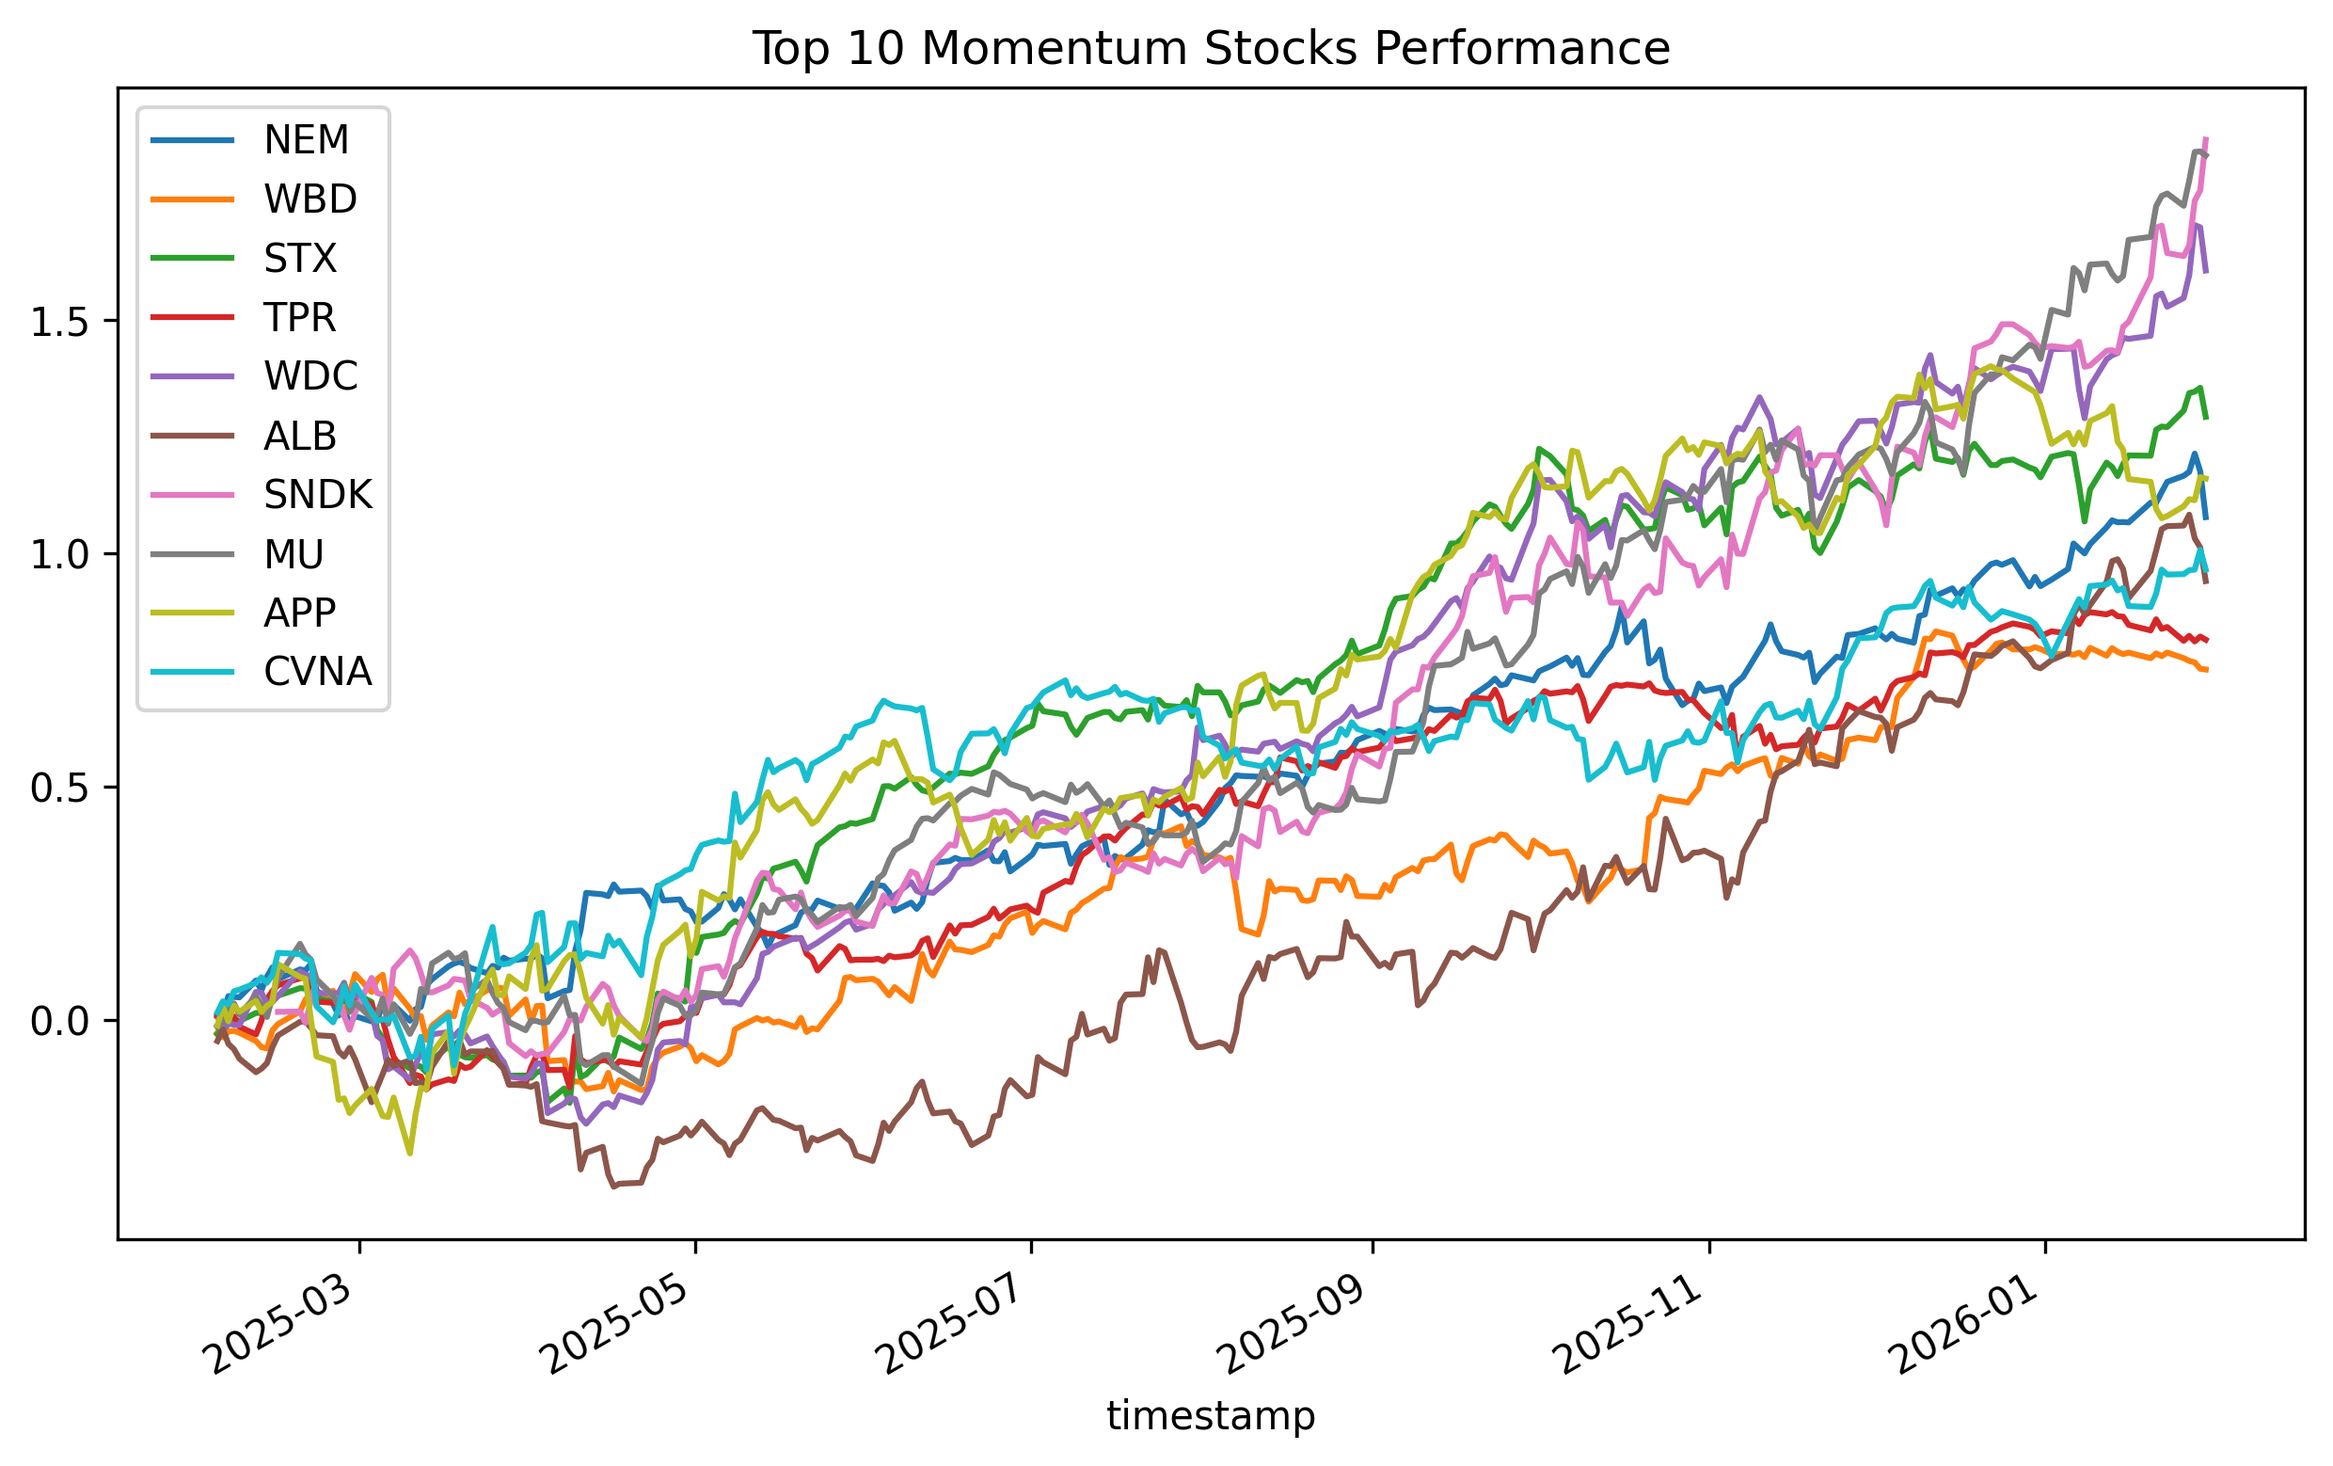
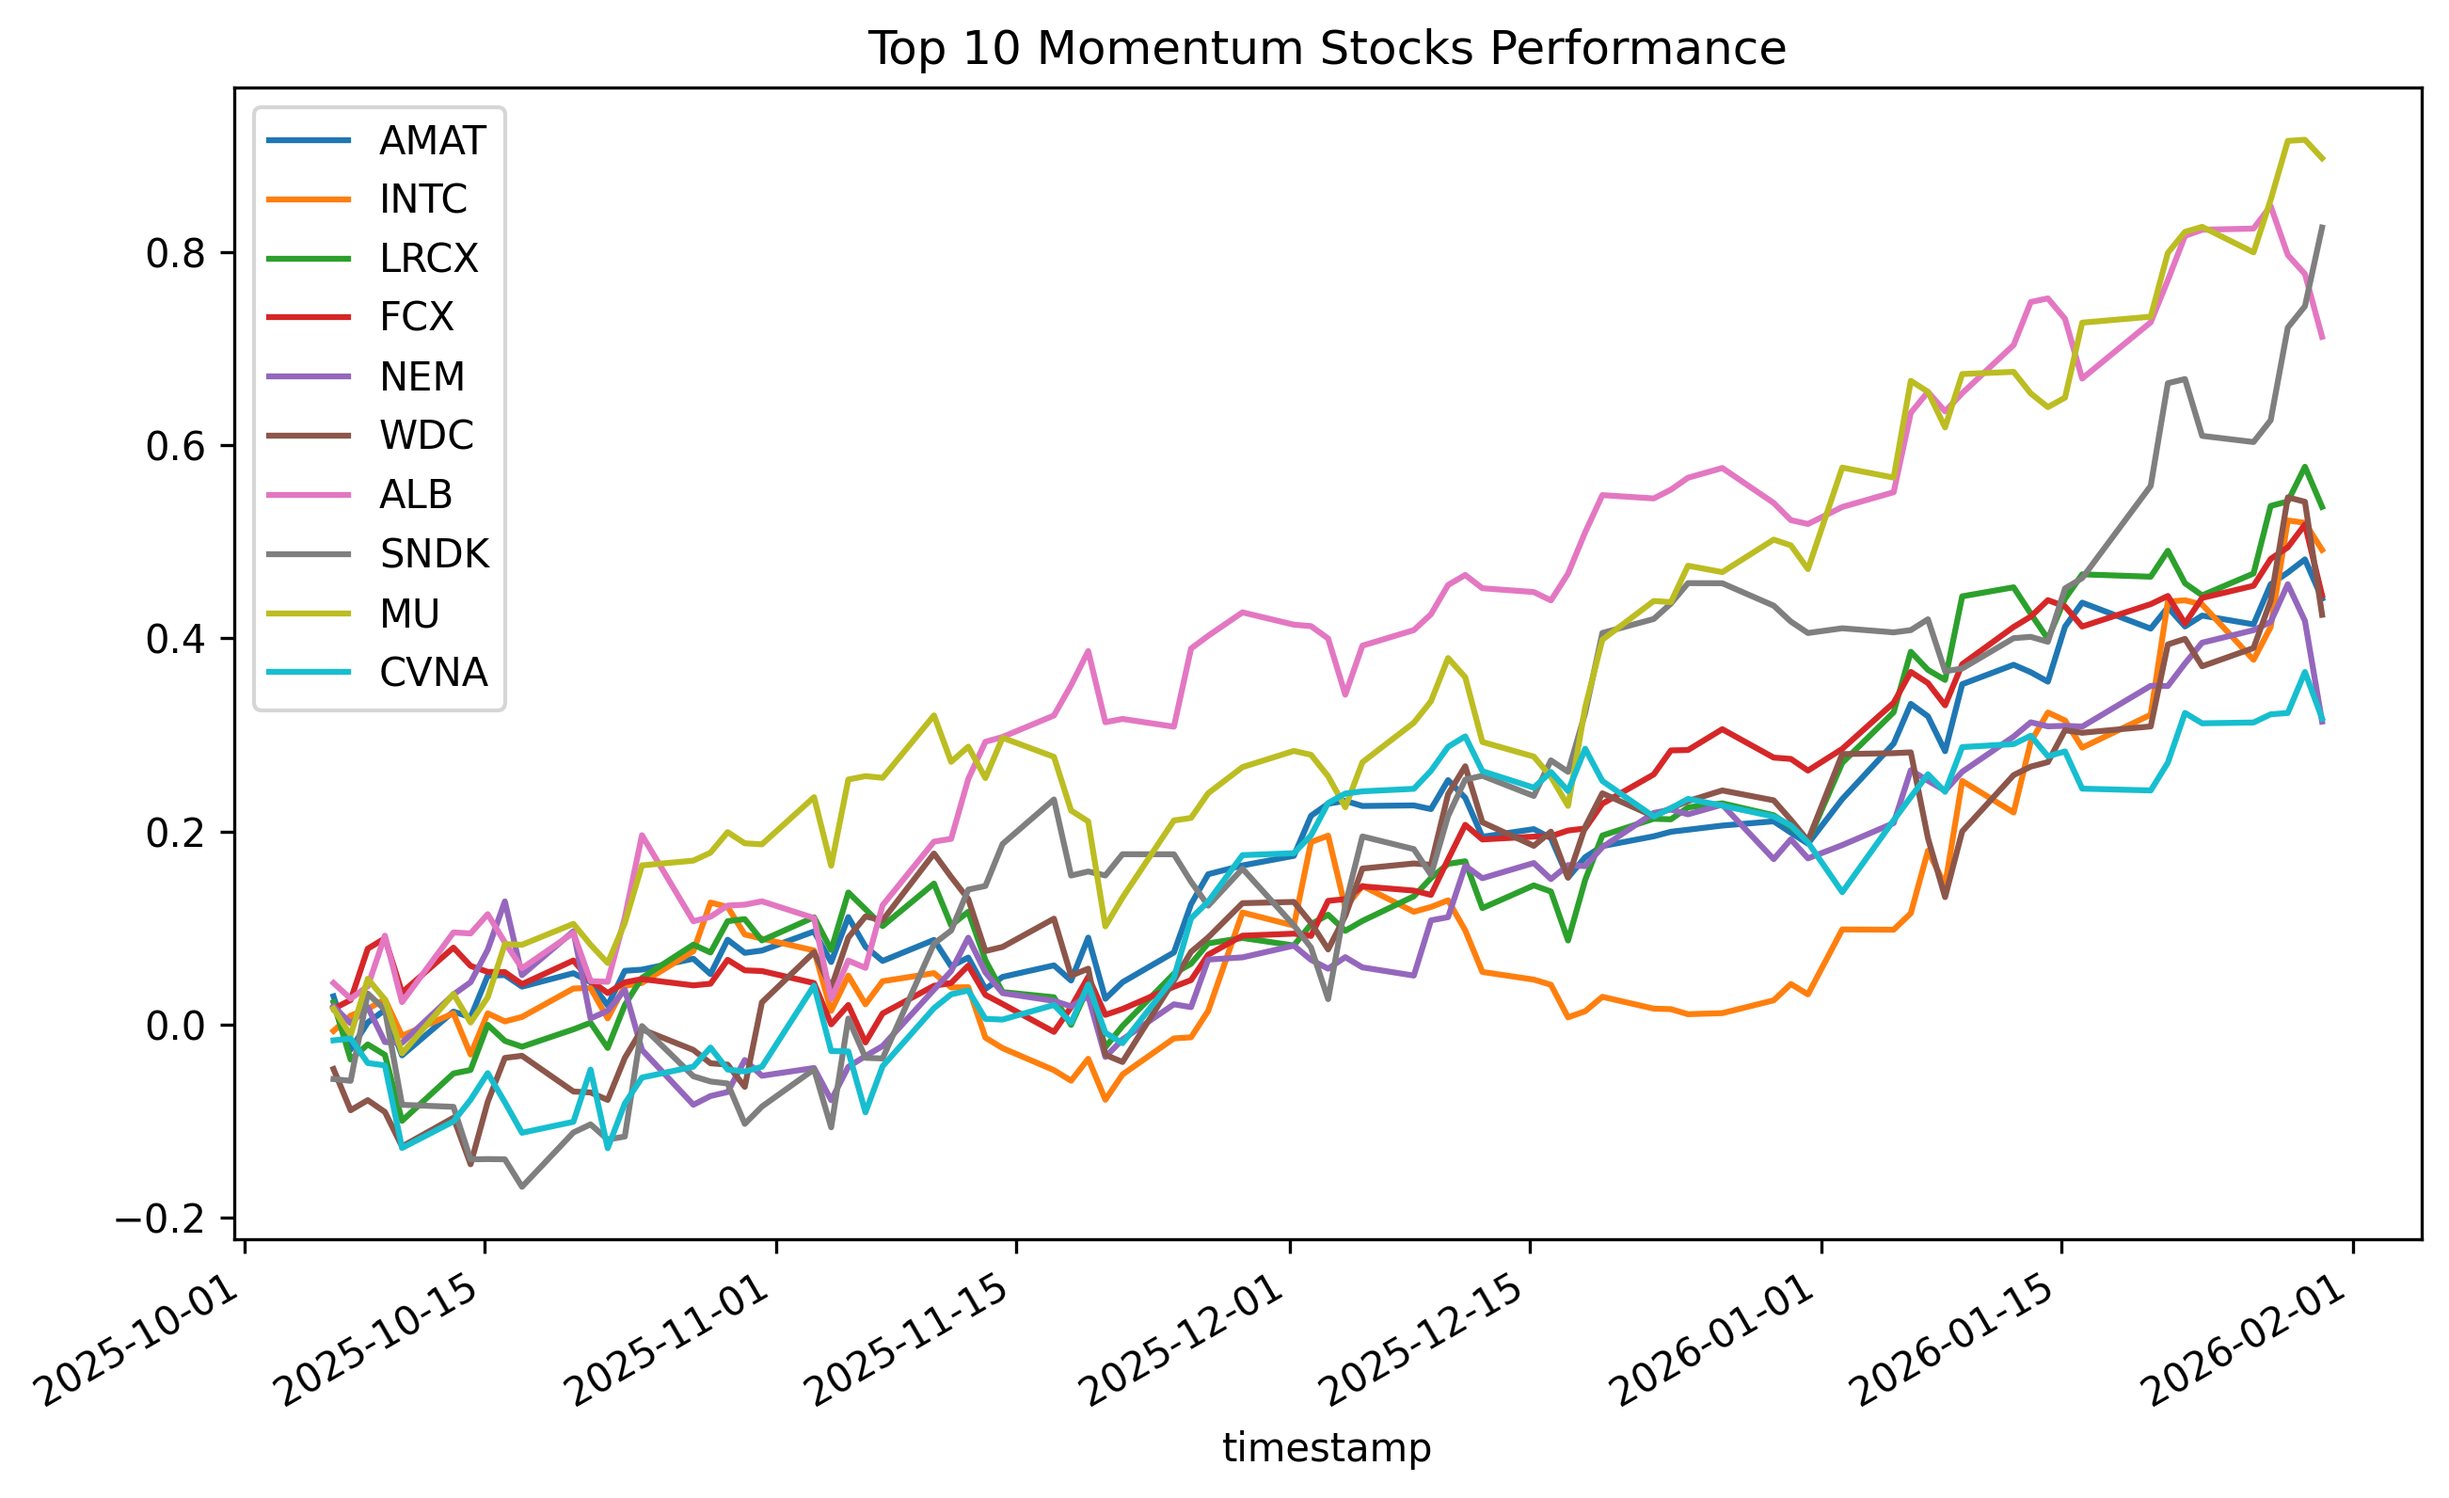
changed lookback

diff --git a/ls_momentum_signal.py b/ls_momentum_signal.py
@@ -60,7 +60,7 @@ def retrieve_daily_close_prices_for_constituents(constituents):
 
     # Calculate date range (e.g., last 252 trading days ~ 1 year)
     end_date = datetime.now()
-    start_date = end_date - timedelta(days=365)
+    start_date = end_date - timedelta(days=120)
 
     for i, symbol in enumerate(constituents, start=1):
         try:
@@ -73,8 +73,6 @@ def retrieve_daily_close_prices_for_constituents(constituents):
             )
 
             bars = stock_historical_data_client.get_stock_bars(request_params)
-            print(bars)
-            exit()
             # Convert to dataframe and extract close prices
             df_bars = bars.df
             if not df_bars.empty:
@@ -186,7 +184,7 @@ if __name__ == "__main__":
 
     prices = df.copy()
 
-    df = calculate_momentum_factor(df, lookback_period=365, exclude_recent_days=30)
+    df = calculate_momentum_factor(df, lookback_period=90, exclude_recent_days=7)
 
     
     mkt_caps = pd.read_excel(market_caps_path, sheet_name='Market Caps')
